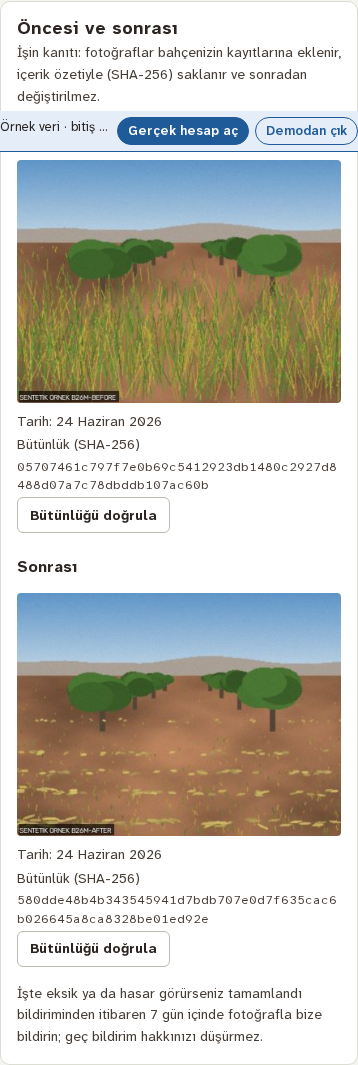
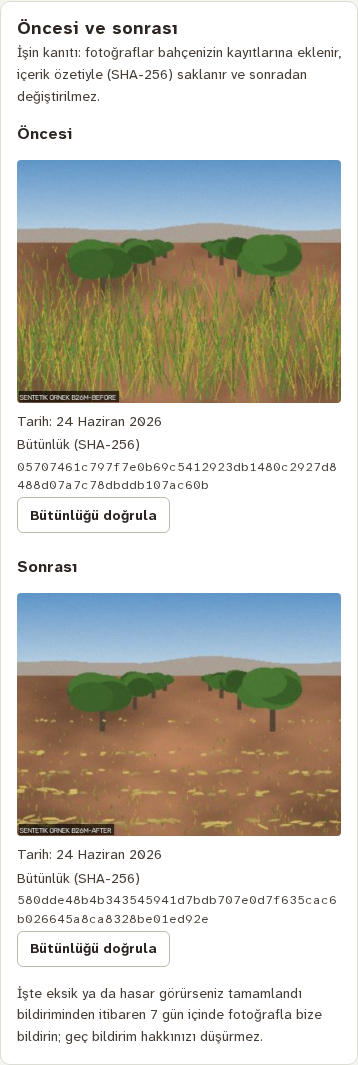
Fruit species: forms, tree override, pistachio-only parts conditional, docs and tests
Claude-Session: https://claude.ai/code/session_01PaScyUeyx1RoEQLhEekVj9

Changed region(s): [[0.0, 0.093, 1.0, 0.1549]]

diff --git a/apps/web/src/lib/i18n/messages/legal.ts b/apps/web/src/lib/i18n/messages/legal.ts
@@ -1140,7 +1140,7 @@ export const legalText: Record<LegalText, LegalDocument> = {
         items: [
           "**Hizmet veren:** OBA Bilişim Teknolojileri LTD. [tam unvan: ticaret sicilindeki gibi], [Adres], [Telefon], [E-posta], [KEP adresi], MERSİS [MERSİS].",
           "**Hizmetin temel nitelikleri:** Bahçe'nin kullanım alanındaki yabani otların motorlu tırpanla biçilmesi; kapsam ve kapsam dışı işler 3. bölümdedir. Hizmet bir defalıktır; iş bitince öncesi ve sonrası fotoğrafları portala konur.",
-          "**Toplam fiyat:** Talep formunda KDV dahil toplam tutar ve hesabı (alan, dönüm fiyatı, minimum ücret, KDV) gösterilir ve talebe dondurulur (5. bölüm). Yol, yakıt ya da başka bir ek masraf istenmez.",
+          '**Toplam fiyat:** Talep formunda KDV dahil toplam tutar ve hesabı (alan, dönüm fiyatı, minimum ücret, KDV) gösterilir ve talebe dondurulur (5. bölüm). Hizmetin talep günü yayımlı fiyatı yoksa formda tutar yerine "Fiyat teklifle bildirilir" yazar; KDV dahil toplam tutar Şirket\'in onay bildiriminde yazılır (5. bölüm, 5. fıkra). Yol, yakıt ya da başka bir ek masraf istenmez.',
           "**Ödeme:** İş bittikten sonra, havale/EFT ile ya da Şirket'in işyerinde. Kartla ya da çevrimiçi ödeme yoktur; iş yapılmadan ödeme istenmez.",
           "**İfa tarihi:** Şirket, talebi onaylarken iş tarihini bildirir. Hava ve güvenlik nedeniyle erteleme 7. bölümdedir.",
           "**Cayma hakkı:** Sözleşmenin kurulduğu günden itibaren 14 gün. Biçme, Sahip'in ayrı onayıyla bu süre içinde yapılırsa işe başlandığında cayma hakkı sona erer (Mesafeli Sözleşmeler Yönetmeliği md. 15/1-(h)). Ayrıntı ve iptal koşulları 10. bölümdedir.",
@@ -1203,11 +1203,11 @@ export const legalText: Record<LegalText, LegalDocument> = {
       {
         kind: "ol",
         items: [
-          "Ücret, talep günü katalogda yayımlı dönüm fiyatı, minimum ücret ve KDV oranıyla hesaplanır: ara toplam, Bahçe'nin dönüm cinsinden alanı (her başlamış 100 m² 0,1 dönüm sayılır) ile dönüm fiyatının çarpımıdır, minimum ücretten az olamaz; toplam, ara toplama yürürlükteki oranla KDV eklenerek bulunur. Alan, Bahçe'nin son sınır sürümünün alanıdır; sınır yoksa Sahip'in beyan ettiği alandır.",
+          "Ücret, talep günü yürürlükte olan yayımlı fiyat listesindeki dönüm fiyatı, minimum ücret ve KDV oranıyla hesaplanır: ara toplam, Bahçe'nin dönüm cinsinden alanı (her başlamış 100 m² 0,1 dönüm sayılır) ile dönüm fiyatının çarpımıdır, minimum ücretten az olamaz; toplam, ara toplama yürürlükteki oranla KDV eklenerek bulunur. Alan, Bahçe'nin son sınır sürümünün alanıdır; sınır yoksa Sahip'in beyan ettiği alandır.",
           "Talep formunda gösterilen tutar talebe dondurulur. Şirket kesin tutarı onaylarken bu tutarı yalnızca indirebilir (örneğin sahada daha küçük bir alan biçilecekse). Daha yüksek bir tutar ancak Sahip portalda yeniden onaylarsa geçerli olur; onaylamazsa talep bedelsiz kapanır.",
           "Ödeme, işin tamamlandığının bildirildiği günden itibaren 14 gün içinde havale/EFT ile Şirket'in portalda yazan hesabına (açıklamaya talep numarası yazılarak) ya da Şirket'in işyerinde yapılır. **Saha personeli ödeme almaz.** Fatura Ana Sözleşme'deki gibi ödemeden sonra düzenlenir.",
           "Ödeme süresi geçerse Şirket SMS ile hatırlatır; hatırlatmada tutar yazmaz. Ödenmemiş bir iş varken aynı Sahip'in yeni bakım talebi planlanmayabilir. Şirket'in kanuni hakları saklıdır. Bu ekten doğan borç, denetim hizmetinin ödemelerinden ayrıdır; ödenmemesi denetim ziyaretlerini ve raporlarını etkilemez.",
-          'Bu ekteki fiyat, kataloğun "taslak fiyat" olarak işaretli olduğu dönemde portalda "tahmini" diye gösterilir; dondurma ve 2. fıkra bu dönemde de uygulanır.',
+          'Hizmetin talep günü yürürlükte olan yayımlı fiyat listesinde fiyatı yoksa talep formunda ve portalda tutar gösterilmez, "Fiyat teklifle bildirilir" yazar ve talebe tutar dondurulmaz. Bu durumda Şirket, talebi onaylarken KDV dahil toplam tutarı iş tarihiyle birlikte SMS ile bildirir ve portalda gösterir; 2. fıkradaki üst sınır uygulanmaz. Sahip bildirilen tutarı kabul etmezse talebini 10. bölüme göre bedelsiz iptal edebilir.',
         ],
       },
       {

diff --git a/apps/web/src/lib/legal/text-hash.test.ts b/apps/web/src/lib/legal/text-hash.test.ts
@@ -52,7 +52,7 @@ const CURRENT: Record<RegisteredText, { version: string; sha256: string }> = {
   },
   service_terms: {
     version: "bakim-v1-taslak",
[2 lines of base64/hex data omitted]
   },
   early_performance: {
     version: "mesafeli-v5-taslak",

diff --git a/docs/hukuk/bakim-hizmeti-ek-sozlesme-taslagi.md b/docs/hukuk/bakim-hizmeti-ek-sozlesme-taslagi.md
@@ -19,7 +19,7 @@ Bu bölüm sözleşme kurulmadan önce talep formunda, talebin bilgileriyle birl
 
 - **Hizmet veren:** OBA Bilişim Teknolojileri LTD. [tam unvan: ticaret sicilindeki gibi], [Adres], [Telefon], [E-posta], [KEP adresi], MERSİS [MERSİS].
 - **Hizmetin temel nitelikleri:** Bahçe'nin kullanım alanındaki yabani otların motorlu tırpanla biçilmesi; kapsam ve kapsam dışı işler 3. bölümdedir. Hizmet bir defalıktır; iş bitince öncesi ve sonrası fotoğrafları portala konur.
-- **Toplam fiyat:** Talep formunda KDV dahil toplam tutar ve hesabı (alan, dönüm fiyatı, minimum ücret, KDV) gösterilir ve talebe dondurulur (5. bölüm). Yol, yakıt ya da başka bir ek masraf istenmez.
+- **Toplam fiyat:** Talep formunda KDV dahil toplam tutar ve hesabı (alan, dönüm fiyatı, minimum ücret, KDV) gösterilir ve talebe dondurulur (5. bölüm). Hizmetin talep günü yayımlı fiyatı yoksa formda tutar yerine "Fiyat teklifle bildirilir" yazar; KDV dahil toplam tutar Şirket'in onay bildiriminde yazılır (5. bölüm, 5. fıkra). Yol, yakıt ya da başka bir ek masraf istenmez.
 - **Ödeme:** İş bittikten sonra, havale/EFT ile ya da Şirket'in işyerinde. Kartla ya da çevrimiçi ödeme yoktur; iş yapılmadan ödeme istenmez.
 - **İfa tarihi:** Şirket, talebi onaylarken iş tarihini bildirir. Hava ve güvenlik nedeniyle erteleme 7. bölümdedir.
 - **Cayma hakkı:** Sözleşmenin kurulduğu günden itibaren 14 gün. Biçme, Sahip'in ayrı onayıyla bu süre içinde yapılırsa işe başlandığında cayma hakkı sona erer (Mesafeli Sözleşmeler Yönetmeliği md. 15/1-(h)). Ayrıntı ve iptal koşulları 10. bölümdedir.
@@ -52,11 +52,11 @@ Biçme, otların yeniden büyümeyeceğini ya da bir sonraki ziyarette kısa kal
 
 ## 5. Ücret ve ödeme
 
-1. Ücret, talep günü katalogda yayımlı dönüm fiyatı, minimum ücret ve KDV oranıyla hesaplanır: ara toplam, Bahçe'nin dönüm cinsinden alanı (her başlamış 100 m² 0,1 dönüm sayılır) ile dönüm fiyatının çarpımıdır, minimum ücretten az olamaz; toplam, ara toplama yürürlükteki oranla KDV eklenerek bulunur. Alan, Bahçe'nin son sınır sürümünün alanıdır; sınır yoksa Sahip'in beyan ettiği alandır.
+1. Ücret, talep günü yürürlükte olan yayımlı fiyat listesindeki dönüm fiyatı, minimum ücret ve KDV oranıyla hesaplanır: ara toplam, Bahçe'nin dönüm cinsinden alanı (her başlamış 100 m² 0,1 dönüm sayılır) ile dönüm fiyatının çarpımıdır, minimum ücretten az olamaz; toplam, ara toplama yürürlükteki oranla KDV eklenerek bulunur. Alan, Bahçe'nin son sınır sürümünün alanıdır; sınır yoksa Sahip'in beyan ettiği alandır.
 2. Talep formunda gösterilen tutar talebe dondurulur. Şirket kesin tutarı onaylarken bu tutarı yalnızca indirebilir (örneğin sahada daha küçük bir alan biçilecekse). Daha yüksek bir tutar ancak Sahip portalda yeniden onaylarsa geçerli olur; onaylamazsa talep bedelsiz kapanır.
 3. Ödeme, işin tamamlandığının bildirildiği günden itibaren 14 gün içinde havale/EFT ile Şirket'in portalda yazan hesabına (açıklamaya talep numarası yazılarak) ya da Şirket'in işyerinde yapılır. **Saha personeli ödeme almaz.** Fatura Ana Sözleşme'deki gibi ödemeden sonra düzenlenir.
 4. Ödeme süresi geçerse Şirket SMS ile hatırlatır; hatırlatmada tutar yazmaz. Ödenmemiş bir iş varken aynı Sahip'in yeni bakım talebi planlanmayabilir. Şirket'in kanuni hakları saklıdır. Bu ekten doğan borç, denetim hizmetinin ödemelerinden ayrıdır; ödenmemesi denetim ziyaretlerini ve raporlarını etkilemez.
-5. Bu ekteki fiyat, kataloğun "taslak fiyat" olarak işaretli olduğu dönemde portalda "tahmini" diye gösterilir; dondurma ve 2. fıkra bu dönemde de uygulanır.
+5. Hizmetin talep günü yürürlükte olan yayımlı fiyat listesinde fiyatı yoksa talep formunda ve portalda tutar gösterilmez, "Fiyat teklifle bildirilir" yazar ve talebe tutar dondurulmaz. Bu durumda Şirket, talebi onaylarken KDV dahil toplam tutarı iş tarihiyle birlikte SMS ile bildirir ve portalda gösterir; 2. fıkradaki üst sınır uygulanmaz. Sahip bildirilen tutarı kabul etmezse talebini 10. bölüme göre bedelsiz iptal edebilir.
 
 ## 6. Sahip'in yükümlülükleri ve gizli engeller
 

diff --git a/docs/hukuk/kararlar.md b/docs/hukuk/kararlar.md
@@ -1799,7 +1799,8 @@ Sözcük düzeyindeki diğer değişiklikler (bağlayıcı; yerleri 2. bölümde
 - **Sözleşmenin kurulması:** Sahip'in talebi sözleşme önerisidir; Şirket onaylayana kadar bedelsiz geri çekilir. Sözleşme Şirket'in tutar ve tarihle onayıyla (`scheduled`) kurulur ve SMS ile bildirilir. Talep bilgileri, sürüm, tutar ve tarih portalda değiştirilmeden saklanır.
 - **(b) Kapsam ve fiyat:**
     - Kapsam yalnızca kullanım alanındaki yabani otun motorlu tırpanla biçilmesidir. Herbisit, toprak işleme, budama, dip sürgünü, otun toplanması ya da yakılması, alan dışı yerler ve güvenle girilemeyen yerler kapsam dışıdır. Biçilen ot yerinde kalır; toplama yalnızca ayrıca yazılı anlaşmayla yapılır. Robotla biçme hiçbir metinde vaat edilmez.
-    - Fiyat formülle yazılır (alan × dönüm fiyatı, minimum ücret, KDV); rakam yazılmaz, çünkü katalog fiyatı taslaktır ve her değişiklik sürüm artırırdı. KDV dahil toplam talep formunda gösterilir ve talebe dondurulur.
+    - Fiyat formülle yazılır (alan × dönüm fiyatı, minimum ücret, KDV); rakam yazılmaz, çünkü fiyat sürümlü fiyat listesindedir ve her değişiklik sürüm artırırdı. KDV dahil toplam talep formunda gösterilir ve talebe dondurulur.
+    - **Fiyatsız hizmet (sahip kararı, 2 Kasım 2026):** Fiyat henüz belirlenmedi; yürürlükteki yayımlı fiyat listesinde hizmetin fiyatı yoksa formda tutar yerine "Fiyat teklifle bildirilir" yazar, talebe tutar dondurulmaz. Şirket onaylarken KDV dahil toplam tutarı iş tarihiyle SMS ile bildirir; indirme kuralı (üst sınır) uygulanmaz; Sahip tutarı kabul etmezse 10. bölüme göre bedelsiz iptal eder (ek sözleşme 2. bölüm "Toplam fiyat", 5/1 ve 5/5). Avukata açık soru (T34): bu durumda toplam fiyat sözleşme kurulmadan önce Sahip'e gösterilmemiş olur (Yönetmelik md. 5/1-(c)); onay bildirimini kabul edilmesi gereken bir teklife çevirmek ya da erken ifa kutusu işaretliyken fiyatsız işi bildirimden en az bir gün sonraya planlamak gerekebilir.
     - **Ops kesin tutarı yalnızca indirebilir.** Daha yüksek tutar ancak Sahip'in portalda yeniden onayıyla geçerlidir; onay yoksa talep bedelsiz kapanır. Tüketicinin onaylamadığı bir bedel istenemez.
     - Ödeme işten sonra, tamamlandı bildiriminden itibaren 14 gün içinde havale/EFT ile ya da işyerinde yapılır. Saha personeli ödeme almaz. Bakım borcu denetim hizmetini etkilemez; ödenmemiş iş varken yeni bakım talebi planlanmayabilir.
 - **(c) Hasar:**
@@ -1829,7 +1830,7 @@ Sözcük düzeyindeki diğer değişiklikler (bağlayıcı; yerleri 2. bölümde
 - Uzlaştırma yoktur; karar tek ajanındır. Belirsiz kalan noktalar avukata bırakıldı (T34): tek belgede iki onayın yeterliliği, kalıcı veri saklayıcısı olarak portal kaydı ile SMS'in yeterliliği (H12'nin PDF kuralı bu küçük işte orantısız görüldü), KDV oranı.
 
 **Metin değişikliği.**
-- Yeni metin: [bakim-hizmeti-ek-sozlesme-taslagi.md](bakim-hizmeti-ek-sozlesme-taslagi.md) (`bakim-v1-taslak`); sitede `/bakim-hizmeti` (`legal.ts` anahtarı `service_terms`).
+- Yeni metin: [bakim-hizmeti-ek-sozlesme-taslagi.md](bakim-hizmeti-ek-sozlesme-taslagi.md) (`bakim-v1-taslak`); sitede `/bakim-hizmeti` (`legal.ts` anahtarı `service_terms`). 2 Kasım 2026'da, metin yayımlanmadan (PR birleşmeden) aynı sürümde değişti: fiyat katalogdan sürümlü fiyat listesine taşındı, "taslak fiyat / tahmini" fıkrası (5/5) fiyatsız hizmet fıkrasıyla değiştirildi, 2. bölüm "Toplam fiyat" buna göre tamamlandı; şablon özeti yeniden kaydedildi (`20261106300000_legal_text_service_terms.sql`).
 - Talep formundaki erken ifa kutusu metni ek sözleşmenin 10/3'ündeki gibidir: “☐ Ot biçmenin 14 günlük cayma süresi dolmadan yapılmasını istiyorum. Personel işe başladığında cayma hakkımın sona ereceğini biliyorum. Bu kutuyu işaretlemezsem iş, cayma süresi dolduktan sonraki bir güne planlanır.”
 - Diğer metinler bu işte değişmez (T35).
 
